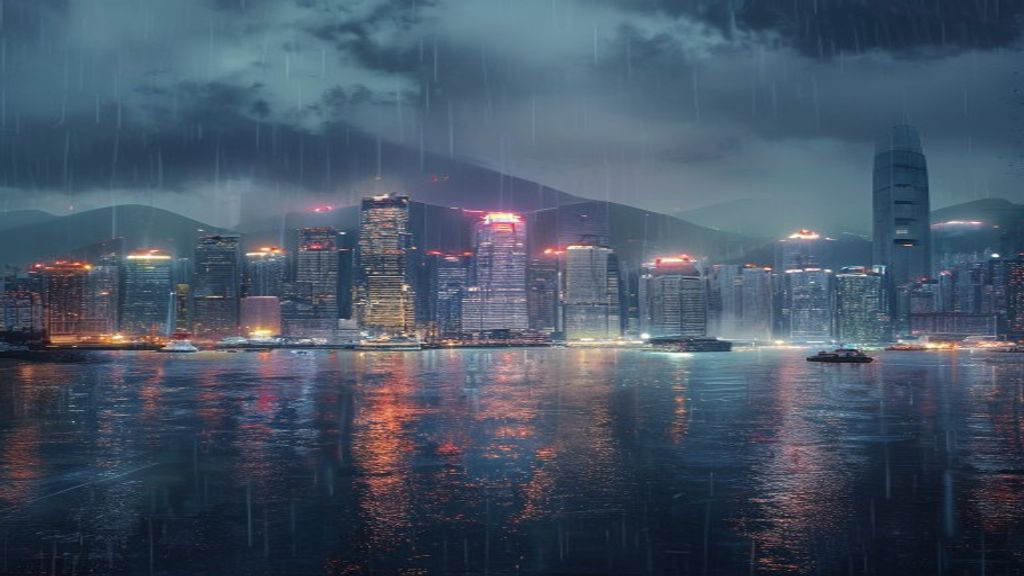
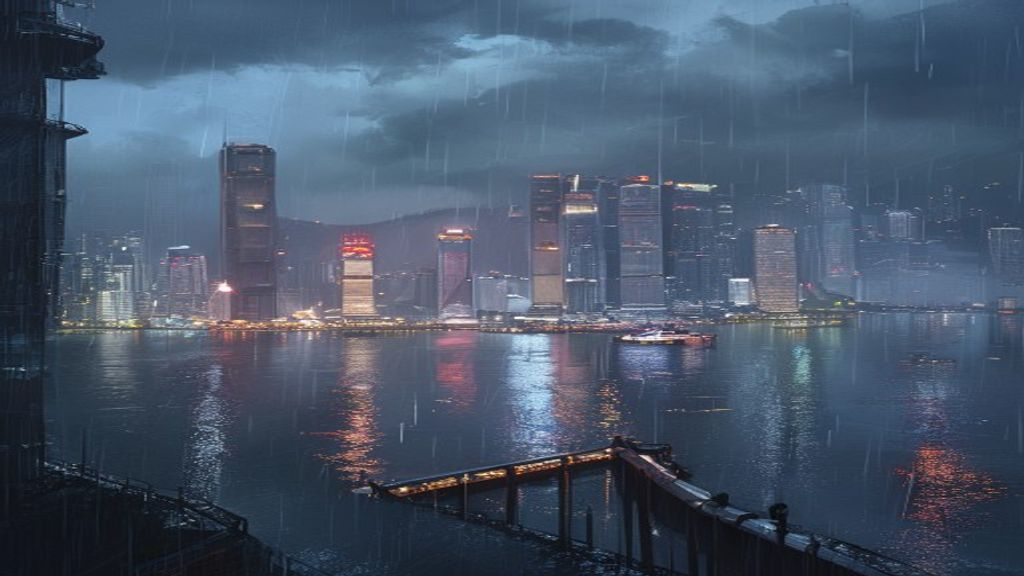
每日自動更新：20260701 - 天氣+新聞+專欄+首頁

diff --git a/reports/sono_20260701.html b/reports/sono_20260701.html
@@ -242,35 +242,11 @@
 <div class="section-panel active" id="panel-ai">
 <div class="section" id="ai">
   <div class="news-card ai">
-    <h3>The 2026 AI Index Report - Stanford HAI <span class="tag trend">趨勢</span></h3>
+    <h3>The 2026 AI Index Report | Stanford HAI <span class="tag trend">趨勢</span></h3>
     <div class="expand-hint">⋯ 點擊展開</div>
     <div class="detail">
     <div class="meta">Jul 1 / Hai / <a href="https://hai.stanford.edu/ai-index/2026-ai-index-report" target="_blank">來源</a></div>
-    <p>The AI Index report tracks, collates, distills, and visualizes data related to artificial intelligence (AI). Our mission is to provide unbiased, rigorously vetted, broadly sourced data in order for policymakers, researchers, executives, journalists, and the general public to develop a more thorough </p>
-    </div>
-  </div>
-  <div class="news-card ai">
-    <h3>PDF MEDIA ADVISORY AI Scientific Panel Report July 1 <span class="tag trend">趨勢</span></h3>
-    <div class="expand-hint">⋯ 點擊展開</div>
-    <div class="detail">
-    <div class="meta">Jul 1 / Un / <a href="https://www.un.org/independent-international-scientific-panel-ai/sites/default/files/2026-06/MEDIA%20ADVISORY%20AI%20Scientific%20Panel%20Report%20July%201-Latest.pdf" target="_blank">來源</a></div>
-    <p>The Independent International Scientific Panel on Artificial Intelligence will present its preliminary report on 1 July 2026.</p>
-    </div>
-  </div>
-  <div class="news-card ai">
-    <h3>Artificial Intelligence - Recent articles and discoveries - Springer <span class="tag trend">趨勢</span></h3>
-    <div class="expand-hint">⋯ 點擊展開</div>
-    <div class="detail">
-    <div class="meta">Jul 1 / Link / <a href="https://link.springer.com/subjects/artificial-intelligence" target="_blank">來源</a></div>
-    <p>Find the latest research papers and news in Artificial Intelligence. Read stories and opinions from top researchers in our research community.</p>
-    </div>
-  </div>
-  <div class="news-card ai">
-    <h3>AI News — Weekly AI Newsletter for Professionals | AI Weekly <span class="tag breakthrough">突破</span></h3>
-    <div class="expand-hint">⋯ 點擊展開</div>
-    <div class="detail">
-    <div class="meta">Jul 1 / Aiweekly / <a href="https://aiweekly.co/" target="_blank">來源</a></div>
-    <p>The latest AI news, funding rounds, model releases, regulation, and real-world applications. Curated 3x/week for 44,000+ AI professionals.</p>
+    <p>Organizational adoption reached 88%, and 4 in 5 university students now use generative AI. ... U.S. and Chinese models have traded the lead multiple times since early 2025. In February 2025, DeepSeek-R1 briefly matched the top U.S. model, and as of March 2026 Anthropic’s top model leads by ...</p>
     </div>
   </div>
   <div class="news-card ai">
@@ -279,6 +255,30 @@
     <div class="detail">
     <div class="meta">Jul 1 / Reddit / <a href="https://www.reddit.com/r/ChatGPT/comments/1twkr5g/state_of_ai_june_2026_the_hype_is_still_here_but/" target="_blank">來源</a></div>
     <p>Hey u/WebOsmotic_official , If your post is a screenshot of a ChatGPT conversation, please reply to this message with the conversation link or prompt. If your post is a DALL-E 3 image post, please reply with the prompt used to make this image. Consider joining our public discord server ! We have fre</p>
+    </div>
+  </div>
+  <div class="news-card ai">
+    <h3>Stanford AI Experts Predict What Will Happen in 2026 <span class="tag trend">趨勢</span></h3>
+    <div class="expand-hint">⋯ 點擊展開</div>
+    <div class="detail">
+    <div class="meta">Jul 1 / Hai / <a href="https://hai.stanford.edu/news/stanford-ai-experts-predict-what-will-happen-in-2026" target="_blank">來源</a></div>
+    <p>In a new study, scholars measured ... fragility under imperfect prompts. After years of fast expansion and billion-dollar bets, 2026 may mark the moment artificial intelligence ......</p>
+    </div>
+  </div>
+  <div class="news-card ai">
+    <h3>2026 International Conference List on Artificial Intelligence <span class="tag trend">趨勢</span></h3>
+    <div class="expand-hint">⋯ 點擊展開</div>
+    <div class="detail">
+    <div class="meta">Jul 1 / Mi-Research / <a href="https://www.mi-research.net/news/712" target="_blank">來源</a></div>
+    <p>Search · E-alert · Submit · Browse MIR · Early Access · Current Issue · Special Issue · Archive · Selected Papers · About MIR</p>
+    </div>
+  </div>
+  <div class="news-card ai">
+    <h3>2026 in artificial intelligence - Wikipedia <span class="tag trend">趨勢</span></h3>
+    <div class="expand-hint">⋯ 點擊展開</div>
+    <div class="detail">
+    <div class="meta">Jul 1 / En / <a href="https://en.wikipedia.org/wiki/2026_in_artificial_intelligence" target="_blank">來源</a></div>
+    <p>The following is a list of events of the year 2026 in artificial intelligence, as well as predicted and scheduled events that have not yet occurred.</p>
     </div>
   </div>
 </div>